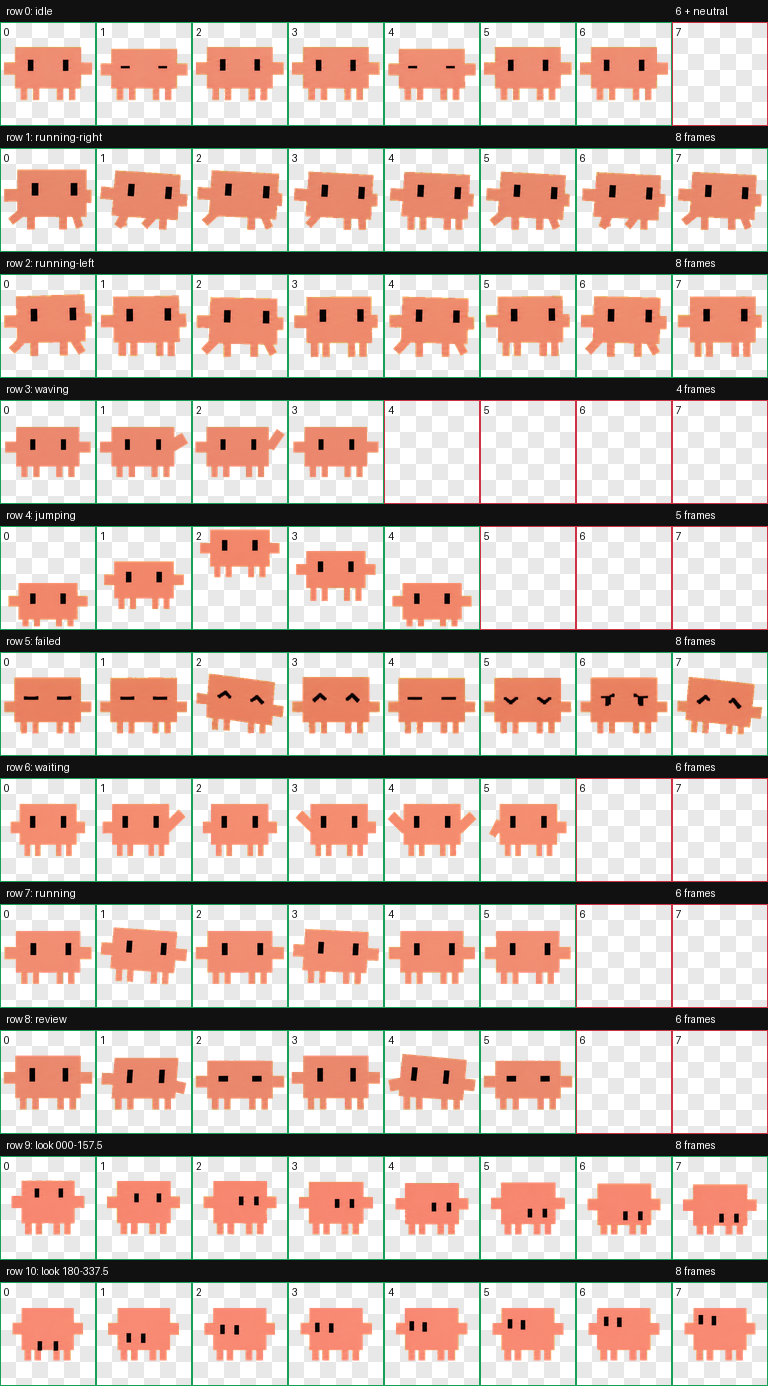
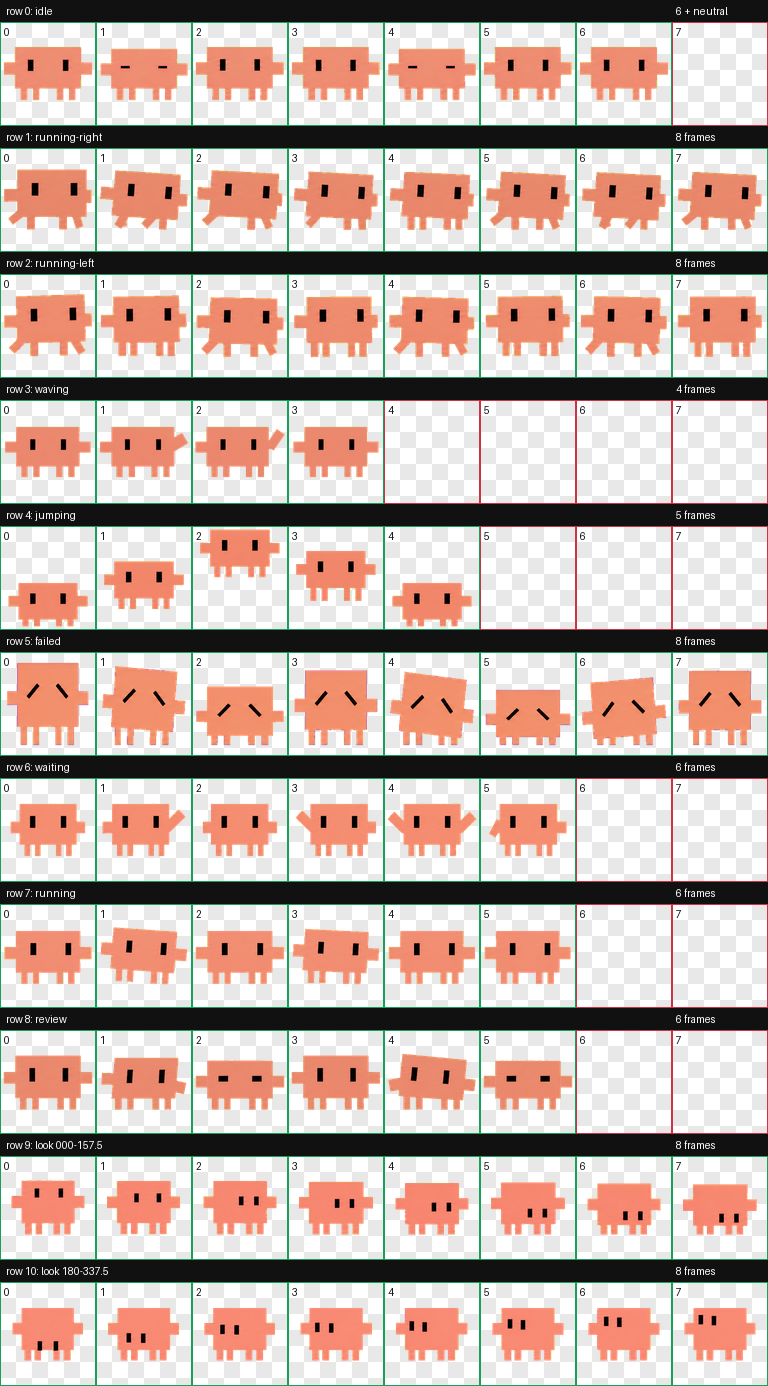
Refine failed animation eyes

Changed region(s): [[0.0, 0.4654, 1.0, 0.5584]]

diff --git a/README.md b/README.md
@@ -13,6 +13,7 @@
 - 左右侧块是两只手，动作中不会重复生成手臂
 - 四条腿按左右两组对称排列
 - 已清除绿色与黄绿色抠图色边
+- 失败状态统一使用两条直斜线组成的八字眼
 - 所有角色动作图均以 image2 生成，再通过 Codex `hatch-pet` 流程组装和校验
 
 ## 动作状态
@@ -39,14 +40,14 @@ cd codex-orange-block-pet
 ./install.sh
 ```
 
-然后完全退出并重新打开 ChatGPT 桌面端，进入 **Settings → Pets**，选择 **Codex 方块宠（零绿边版）**，再输入 `/pet` 唤醒。
+然后完全退出并重新打开 ChatGPT 桌面端，进入 **Settings → Pets**，选择 **Codex 方块宠（八字眼版）**，再输入 `/pet` 唤醒。
 
 ### 手动安装
 
 将 `pet/` 中的 `pet.json` 和 `spritesheet.webp` 一起复制到：
 
 ```text
-~/.codex/pets/codex-block-pet-zero-green-v3/
+~/.codex/pets/codex-block-pet-eight-eyes-v4/
 ```
 
 ## 文件
@@ -56,6 +57,7 @@ cd codex-orange-block-pet
 - `preview/contact-sheet.png`：动作总览
 - `reports/validation.json`：图集结构与透明度校验报告
 - `reports/chroma-despill.json`：绿色边缘净化报告
+- `reports/failed-row-despill.json`：失败动画行的蓝色边缘净化报告
 
 ## 许可
 